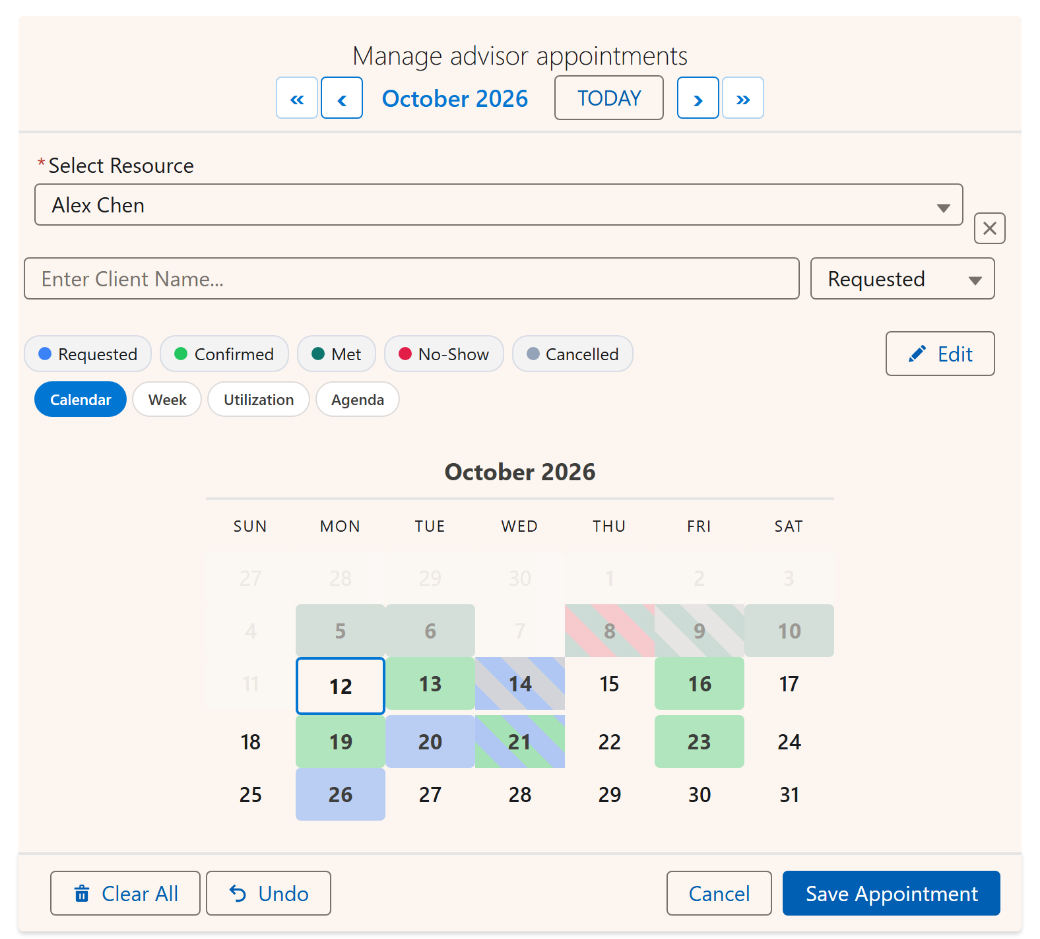
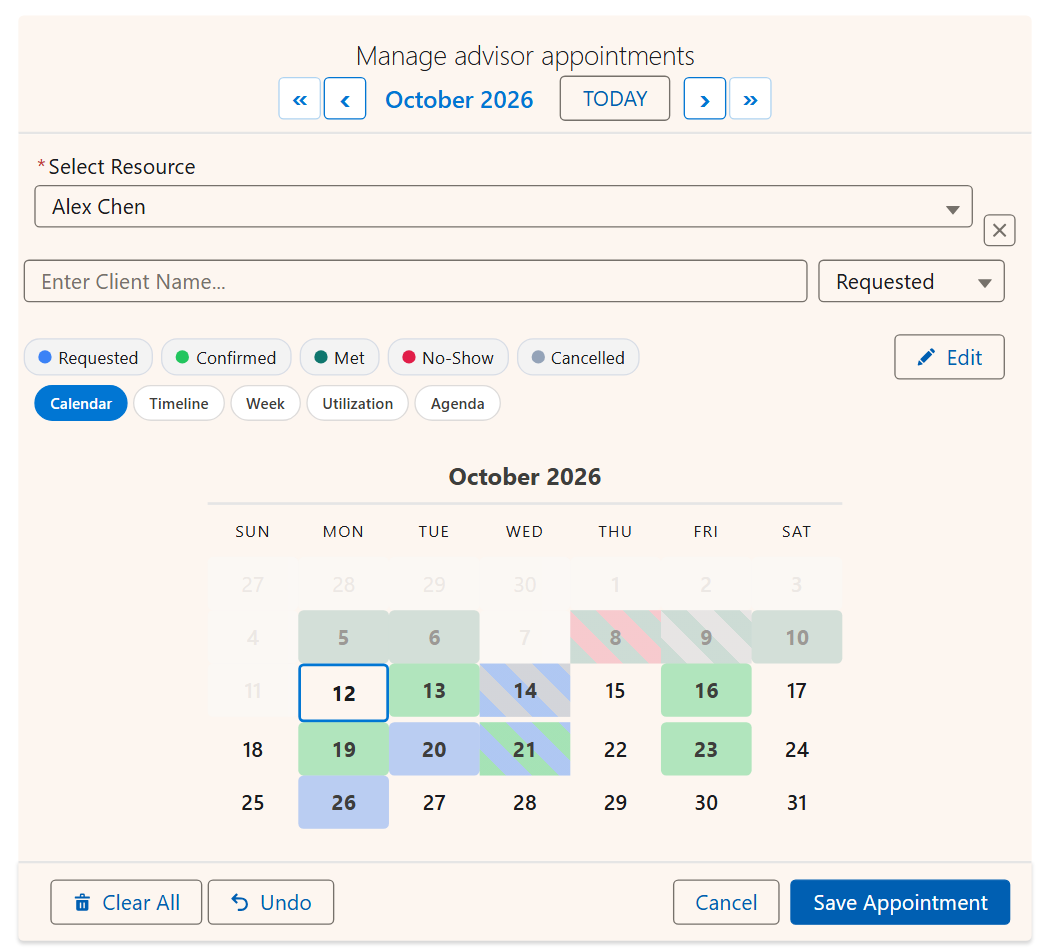
Views blog restyled with live view GIFs; wizard field-picker shots; hero shows the Timeline view; calmer home calendar card

diff --git a/blog/salesforce-calendar-views.html b/blog/salesforce-calendar-views.html
@@ -20,6 +20,44 @@
     <link rel="canonical" href="https://multidatepick.com/blog/salesforce-calendar-views.html">
     <link rel="stylesheet" href="../css/style.css">
     <link rel="stylesheet" href="../css/solutions.css">
+    <style>
+        /* Views post (restyled 2026-10-12): accent headings, view cards with live GIFs, config pills. */
+        .section h2 { position: relative; padding-left: 16px; color: #0F2D52; }
+        .section h2::before { content: ""; position: absolute; left: 0; top: 0.18em; bottom: 0.18em; width: 5px; border-radius: 3px; background: #F97316; }
+        .sc-cta-band h2 { padding-left: 0; }
+        .sc-cta-band h2::before { display: none; }
+        .vb-views { display: flex; flex-direction: column; gap: 26px; margin: 26px 0 10px;
+            /* wider than the 820px text column, so the GIFs read at a useful size */
+            width: min(1120px, calc(100vw - 40px)); margin-left: calc(50% - min(560px, calc(50vw - 20px))); }
+        .vb-view { display: grid; grid-template-columns: 0.75fr 1.25fr; gap: 30px; align-items: center;
+            background: #fff; border: 1px solid #E2E8F0; border-top: 5px solid var(--vb-c); border-radius: 14px;
+            padding: 22px 24px; box-shadow: 0 4px 18px rgba(15, 45, 82, 0.06); }
+        .vb-view.vb-flip { grid-template-columns: 1.25fr 0.75fr; }
+        .vb-view.vb-flip .vb-text { order: 2; }
+        .vb-tag { display: inline-block; font-size: 0.72rem; font-weight: 800; letter-spacing: 0.1em; text-transform: uppercase;
+            color: var(--vb-c); background: color-mix(in srgb, var(--vb-c) 12%, #fff); border-radius: 999px; padding: 4px 12px; }
+        .vb-text h3 { margin: 12px 0 8px; font-size: 1.42rem; line-height: 1.25; color: #0F2D52; }
+        .vb-text p { margin: 0 0 14px; color: #374151; line-height: 1.6; }
+        .vb-mode { font-size: 0.8rem; font-weight: 700; color: #15803D; }
+        .vb-mode::before { content: "\2713  "; }
+        .vb-mode.vb-ro { color: #64748B; }
+        .vb-mode.vb-ro::before { content: "\25CB  "; }
+        .vb-media { margin: 0; }
+        .vb-media img { display: block; width: 100%; height: auto; border-radius: 10px; border: 1px solid #E2E8F0; }
+        .vb-aside { color: #4B5563; font-style: italic; }
+        .vb-configs { display: flex; flex-direction: column; gap: 10px; margin: 20px 0; }
+        .vb-cfg { display: grid; grid-template-columns: 1.25fr 210px 1fr; gap: 16px; align-items: center;
+            background: #F8FAFC; border: 1px solid #E2E8F0; border-radius: 10px; padding: 12px 16px; }
+        .vb-cfg-what { font-weight: 700; color: #0F2D52; }
+        .vb-cfg-why { color: #64748B; font-size: 0.9rem; }
+        .vb-pills { display: flex; gap: 6px; }
+        .vb-pills b { font-size: 0.78rem; font-weight: 700; color: #fff; background: var(--vb-c); border-radius: 999px; padding: 4px 11px; }
+        @media (max-width: 760px) {
+            .vb-view, .vb-view.vb-flip { grid-template-columns: 1fr; padding: 18px; }
+            .vb-view.vb-flip .vb-text { order: 0; }
+            .vb-cfg { grid-template-columns: 1fr; gap: 6px; }
+        }
+    </style>
     <link rel="icon" type="image/x-icon" href="/favicon.ico">
     <link rel="icon" type="image/png" sizes="96x96" href="/favicon.png">
     <link rel="apple-touch-icon" sizes="180x180" href="/apple-touch-icon.png">
@@ -89,11 +127,12 @@
             "@context": "https://schema.org",
             "@graph": [
                 {"@type": "ImageObject", "contentUrl": "https://multidatepick.com/images/marketing/salesforce-calendar-five-views.png", "caption": "Salesforce bookings in all five MultiDatePick views: a resource timeline with a capacity strip, a status-colored month calendar, a utilization heatmap, a week grid and an agenda list", "creditText": "MultiDatePick", "creator": {"@type": "Organization", "name": "MultiDatePick"}},
-                {"@type": "ImageObject", "contentUrl": "https://multidatepick.com/images/views/salesforce-timeline-capacity-lanes.png", "caption": "Close-up of the MultiDatePick Salesforce timeline: overlapping multi-day bookings stack into lanes under each resource, and a capacity strip shows how full each day is", "creditText": "MultiDatePick", "creator": {"@type": "Organization", "name": "MultiDatePick"}},
-                {"@type": "ImageObject", "contentUrl": "https://multidatepick.com/images/views/salesforce-resource-timeline-view.png", "caption": "MultiDatePick resource timeline on a Salesforce booking: resources down the side, dates across the top, Day, Week and Month zoom, a combined capacity strip, and multi-day bookings drawn as continuous bars that stack into lanes when they overlap", "creditText": "MultiDatePick", "creator": {"@type": "Organization", "name": "MultiDatePick"}},
-                {"@type": "ImageObject", "contentUrl": "https://multidatepick.com/images/views/salesforce-week-view.png", "caption": "MultiDatePick week view on Salesforce for one advisor: named client meetings of 30 and 60 minutes drawn as status-colored blocks, closed hours hatched and today marked", "creditText": "MultiDatePick", "creator": {"@type": "Organization", "name": "MultiDatePick"}},
-                {"@type": "ImageObject", "contentUrl": "https://multidatepick.com/images/views/salesforce-utilization-heatmap.png", "caption": "MultiDatePick utilization heatmap on Salesforce: advisors down the side, days across, each day showing booked of capacity on a blue scale, with a combined row and an average and open column", "creditText": "MultiDatePick", "creator": {"@type": "Organization", "name": "MultiDatePick"}},
-                {"@type": "ImageObject", "contentUrl": "https://multidatepick.com/images/views/view-agenda.png", "caption": "Agenda view: chronological list of upcoming bookings grouped by day with status pills", "creditText": "MultiDatePick", "creator": {"@type": "Organization", "name": "MultiDatePick"}}
+                {"@type": "ImageObject", "contentUrl": "https://multidatepick.com/images/views/salesforce-calendar-view-demo.gif", "caption": "Animated demo of the MultiDatePick Salesforce calendar view: picking an advisor fills the month with status colors, and hovering a day opens a card listing that day's appointments by client name, time and status", "creditText": "MultiDatePick", "creator": {"@type": "Organization", "name": "MultiDatePick"}},
+                {"@type": "ImageObject", "contentUrl": "https://multidatepick.com/images/views/salesforce-timeline-view-demo.gif", "caption": "Animated demo of the MultiDatePick Salesforce resource timeline: advisors down the side, multi-day engagements as single bars, a hover card on one engagement, then zooming from Week to Month and paging forward", "creditText": "MultiDatePick", "creator": {"@type": "Organization", "name": "MultiDatePick"}},
+                {"@type": "ImageObject", "contentUrl": "https://multidatepick.com/images/views/salesforce-week-view-demo.gif", "caption": "Animated demo of the MultiDatePick Salesforce week view: choosing an advisor shows their client meetings as status-colored blocks sized to each meeting's length, with hover cards giving client, meeting type and status", "creditText": "MultiDatePick", "creator": {"@type": "Organization", "name": "MultiDatePick"}},
+                {"@type": "ImageObject", "contentUrl": "https://multidatepick.com/images/views/salesforce-utilization-view-demo.gif", "caption": "Animated demo of the MultiDatePick Salesforce utilization heatmap: advisors down the side showing booked of capacity per day, hovering a full day, then clicking it to open that advisor's week", "creditText": "MultiDatePick", "creator": {"@type": "Organization", "name": "MultiDatePick"}},
+                {"@type": "ImageObject", "contentUrl": "https://multidatepick.com/images/views/salesforce-agenda-view-demo.gif", "caption": "Animated demo of the MultiDatePick Salesforce agenda view: upcoming appointments listed by date with time, client, status pill and advisor, with hover cards on two of them", "creditText": "MultiDatePick", "creator": {"@type": "Organization", "name": "MultiDatePick"}},
+                {"@type": "ImageObject", "contentUrl": "https://multidatepick.com/images/views/salesforce-resource-timeline-view.png", "caption": "MultiDatePick resource timeline on a Salesforce booking: resources down the side, dates across the top, Day, Week and Month zoom, a combined capacity strip, and multi-day bookings drawn as continuous bars that stack into lanes when they overlap", "creditText": "MultiDatePick", "creator": {"@type": "Organization", "name": "MultiDatePick"}}
             ]
         }
         </script>
@@ -103,7 +142,7 @@
             "@type": "Article",
             "headline": "Five Calendar Views, One Salesforce Component",
             "datePublished": "2026-08-21",
-            "dateModified": "2026-08-21",
+            "dateModified": "2026-10-12",
             "author": { "@type": "Organization", "name": "MultiDatePick" },
             "publisher": { "@type": "Organization", "name": "MultiDatePick" },
             "mainEntityOfPage": "https://multidatepick.com/blog/salesforce-calendar-views.html"
@@ -117,7 +156,7 @@
         </section>
         <section class="section">
             <div class="container" style="max-width:820px;">
-                <p class="sc-meta">Published 21 August 2026 &middot; MultiDatePick</p>
+                <p class="sc-meta">Published 21 August 2026 &middot; Updated 12 October 2026 &middot; MultiDatePick</p>
 
                 <p class="sc-lead">Every calendar starts as a month grid, because that is what the word makes you picture. Then people start asking questions it cannot answer. "Who is free Thursday afternoon?" "Is Room 4 booked solid next week?" "Which technician is over capacity?" The grid holds all of that data. It just makes you hunt for it.</p>
 
@@ -134,71 +173,67 @@
 
                 <h2 style="margin-top:44px;">The five views, and the question each one answers</h2>
 
-                <table class="sc-table">
-                    <tr>
-                        <th style="width:20%;">View</th>
-                        <th style="width:38%;">The question it answers</th>
-                        <th style="width:42%;">Shape</th>
-                    </tr>
-                    <tr>
-                        <td class="sc-new">Calendar</td>
-                        <td class="sc-old">What is happening on the 14th?</td>
-                        <td class="sc-old">A month at a time, status colors per day. The default, and still the right answer most of the time.</td>
-                    </tr>
-                    <tr>
-                        <td class="sc-new">Timeline</td>
-                        <td class="sc-old">Which resource is free, and when?</td>
-                        <td class="sc-old">Resources down the side, dates across the top. A multi-day booking draws as one continuous bar.</td>
-                    </tr>
-                    <tr>
-                        <td class="sc-new">Week</td>
-                        <td class="sc-old">Who is free Thursday at 2pm?</td>
-                        <td class="sc-old">Seven days across, your business hours down. Drag across days and down hours at the same time.</td>
-                    </tr>
-                    <tr>
-                        <td class="sc-new">Utilization</td>
-                        <td class="sc-old">Who is over capacity?</td>
-                        <td class="sc-old">A heatmap of percentage-of-capacity used, per resource per day, green through red.</td>
-                    </tr>
-                    <tr>
-                        <td class="sc-new">Agenda</td>
-                        <td class="sc-old">What is next?</td>
-                        <td class="sc-old">A flat chronological list of the next 60 days. Reads well on a phone and in a shift handover.</td>
-                    </tr>
-                </table>
+                <p>Each view is built for one question. Same records underneath, drawn the way that question needs.</p>
 
-                <p>Utilization and Agenda are read only by design: they answer a question rather than take a booking. The other three are fully interactive.</p>
+                <div class="vb-views">
+                <article class="vb-view" style="--vb-c:#0176D3;">
+                    <div class="vb-text">
+                        <span class="vb-tag">Calendar</span>
+                        <h3>What is happening on the 14th?</h3>
+                        <p>A month at a time, each day filled with the status of what is booked on it. Days that mix statuses get diagonal stripes. The default, and still the right answer most of the time.</p>
+                        <span class="vb-mode">Interactive</span>
+                    </div>
+                    <figure class="vb-media">
+                        <img src="/images/views/salesforce-calendar-view-demo.gif" alt="Animated demo of the MultiDatePick Salesforce calendar view: picking an advisor fills the month with status colors, and hovering a day opens a card listing that day's appointments by client name, time and status" loading="lazy" width="700" height="780" data-zoomable>
+                    </figure>
+                </article>
+                <article class="vb-view vb-flip" style="--vb-c:#F97316;">
+                    <div class="vb-text">
+                        <span class="vb-tag">Timeline</span>
+                        <h3>Which resource is free, and when?</h3>
+                        <p>Resources down the side, dates across the top. A booking that spans three days draws as one bar, overlapping bookings stack into lanes, and a capacity strip shows how full each day is. Zoom from a single day to a whole month, and drag a bar to move or stretch it.</p>
+                        <span class="vb-mode">Interactive</span>
+                    </div>
+                    <figure class="vb-media">
+                        <img src="/images/views/salesforce-timeline-view-demo.gif" alt="Animated demo of the MultiDatePick Salesforce resource timeline: advisors down the side, multi-day engagements as single bars, a hover card on one engagement, then zooming from Week to Month and paging forward" loading="lazy" width="880" height="880" data-zoomable>
+                    </figure>
+                </article>
+                <article class="vb-view" style="--vb-c:#16A34A;">
+                    <div class="vb-text">
+                        <span class="vb-tag">Week</span>
+                        <h3>Who is free Thursday at 2pm?</h3>
+                        <p>Seven days across, business hours down, each booking sized to its real length. Bookings that overlap sit side by side in their own status colors, and the strip beside them stays open so you can add one more.</p>
+                        <span class="vb-mode">Interactive</span>
+                    </div>
+                    <figure class="vb-media">
+                        <img src="/images/views/salesforce-week-view-demo.gif" alt="Animated demo of the MultiDatePick Salesforce week view: choosing an advisor shows their client meetings as status-colored blocks sized to each meeting's length, with hover cards giving client, meeting type and status" loading="lazy" width="880" height="1080" data-zoomable>
+                    </figure>
+                </article>
+                <article class="vb-view vb-flip" style="--vb-c:#7C3AED;">
+                    <div class="vb-text">
+                        <span class="vb-tag">Utilization</span>
+                        <h3>Who is over capacity?</h3>
+                        <p>Booked against capacity, per resource per day, on one blue scale. Overbooked days get an orange ring, and a combined row sums the team. Click any cell to drop into that resource's week.</p>
+                        <span class="vb-mode vb-ro">Read only</span>
+                    </div>
+                    <figure class="vb-media">
+                        <img src="/images/views/salesforce-utilization-view-demo.gif" alt="Animated demo of the MultiDatePick Salesforce utilization heatmap: advisors down the side showing booked of capacity per day, hovering a full day, then clicking it to open that advisor's week" loading="lazy" width="880" height="780" data-zoomable>
+                    </figure>
+                </article>
+                <article class="vb-view" style="--vb-c:#0F766E;">
+                    <div class="vb-text">
+                        <span class="vb-tag">Agenda</span>
+                        <h3>What is next?</h3>
+                        <p>A flat list of the next 60 days, grouped by date, with the times, statuses and fields you pick. Reads well on a phone and in a shift handover.</p>
+                        <span class="vb-mode vb-ro">Read only</span>
+                    </div>
+                    <figure class="vb-media">
+                        <img src="/images/views/salesforce-agenda-view-demo.gif" alt="Animated demo of the MultiDatePick Salesforce agenda view: upcoming appointments listed by date with time, client, status pill and advisor, with hover cards on two of them" loading="lazy" width="700" height="860" data-zoomable>
+                    </figure>
+                </article>
+                </div>
 
-                <!-- PLACEHOLDER: salesforce-calendar-timeline-view.png (1400x800). Timeline on
-                     the demo record page, 8+ resources, at least one multi-day bar spanning 3
-                     days, weekend hatching visible. -->
-                <figure class="sc-shot">
-                    <img src="/images/views/salesforce-timeline-capacity-lanes.png" alt="Timeline view of MultiDatePick: advisors down the side, days across the top, a combined capacity strip, and multi-day engagements drawn as single bars that stack into lanes when they overlap" loading="lazy" style="width:100%;max-width:100%;height:auto;border-radius:10px;box-shadow:0 2px 12px rgba(0,0,0,0.08);border:1px solid #E2E8F0;display:block;" width="1400" height="616" data-zoomable>
-                    <figcaption><strong>Timeline.</strong> A booking that spans three days draws as one bar, not three cells.</figcaption>
-                </figure>
-
-                <!-- PLACEHOLDER: salesforce-calendar-week-view.png (1400x800). Week grid with
-                     business hours, several colored appointments at different times, one
-                     hatched block showing a closure. -->
-                <figure class="sc-shot">
-                    <img src="/images/views/salesforce-week-view.png" alt="MultiDatePick week view on Salesforce for one advisor: named client meetings of 30 and 60 minutes drawn as status-colored blocks, closed hours hatched and today marked" loading="lazy" style="width:100%;max-width:100%;height:auto;border-radius:10px;box-shadow:0 2px 12px rgba(0,0,0,0.08);border:1px solid #E2E8F0;display:block;" width="1400" height="1355" data-zoomable>
-                    <figcaption><strong>Week.</strong> Drag across days and down hours in one gesture. Hatched slots are closures.</figcaption>
-                </figure>
-
-                <!-- PLACEHOLDER: salesforce-calendar-utilization-heatmap.png (1400x700).
-                     Utilization with a real gradient across the legend, not one flat band.
-                     Needs a capacity field mapped or it shows raw counts. -->
-                <figure class="sc-shot">
-                    <img src="/images/views/salesforce-utilization-heatmap.png" alt="MultiDatePick utilization heatmap on Salesforce: advisors down the side, days across, each day showing booked of capacity on a blue scale, with a combined row and an average and open column" loading="lazy" style="width:100%;max-width:100%;height:auto;border-radius:10px;box-shadow:0 2px 12px rgba(0,0,0,0.08);border:1px solid #E2E8F0;display:block;" width="1400" height="790" data-zoomable>
-                    <figcaption><strong>Utilization.</strong> Click any cell to drop into that resource's week on that date.</figcaption>
-                </figure>
-
-                <!-- PLACEHOLDER: salesforce-calendar-agenda-view.png (900x800, portrait for
-                     mobile framing). Agenda grouped by day with time, name and status pill. -->
-                <figure class="sc-shot">
-                    <img src="/images/views/view-agenda.png" alt="Agenda view: chronological list of upcoming bookings grouped by day with status pills" loading="lazy" style="width:100%;max-width:100%;height:auto;border-radius:10px;box-shadow:0 2px 12px rgba(0,0,0,0.08);border:1px solid #E2E8F0;display:block;" width="996" height="796" data-zoomable>
-                    <figcaption><strong>Agenda.</strong> <code>agendaFields</code> picks the columns. Reads well on a phone.</figcaption>
-                </figure>
+                <p class="vb-aside">Utilization and Agenda are read only by design: they answer a question rather than take a booking. The other three are fully interactive.</p>
 
                 <h2 style="margin-top:44px;">Why this is a configuration problem, not a feature request</h2>
 
@@ -268,16 +303,16 @@
 
                 <h2 style="margin-top:44px;">Every config in the library now ships with a view already chosen</h2>
 
-                <p>Picking a default view is a judgment call, and it is easier to copy one than to make one. So every config in the <a href="/configlibrary.html">Config Library</a> now specify both a default view and a switcher list, chosen for what each config is actually for:</p>
+                <p>Picking a default view is a judgment call, and it is easier to copy one than to make one. So every config in the <a href="/configlibrary.html">Config Library</a> now specifies both a default view and a switcher list, chosen for what each config is actually for:</p>
 
-                <ul class="sc-usecases">
-                    <li>Interview and appointment configs default to Week</li>
-                    <li>Room, desk, fleet and lab configs offer Timeline and Utilization</li>
-                    <li>Date-range configs like PTO and blackout dates offer Timeline, where a multi-day record draws as one bar</li>
-                    <li>Date-only configs stay on Calendar with Agenda as the read-only companion</li>
-                    <li>Utilization only appears where a capacity field exists, because without one it shows raw counts</li>
-                    <li>Defaults are always a writable view, since a read-only default would break the config's primary action</li>
-                </ul>
+                <div class="vb-configs">
+                    <div class="vb-cfg"><span class="vb-cfg-what">Interview and appointment configs</span><span class="vb-pills"><b style="--vb-c:#16A34A;">Week</b></span><span class="vb-cfg-why">open on the hours of the day</span></div>
+                    <div class="vb-cfg"><span class="vb-cfg-what">Room, desk, fleet and lab configs</span><span class="vb-pills"><b style="--vb-c:#F97316;">Timeline</b><b style="--vb-c:#7C3AED;">Utilization</b></span><span class="vb-cfg-why">who has what, and how full</span></div>
+                    <div class="vb-cfg"><span class="vb-cfg-what">PTO, blackout and other date ranges</span><span class="vb-pills"><b style="--vb-c:#F97316;">Timeline</b></span><span class="vb-cfg-why">a multi-day record draws as one bar</span></div>
+                    <div class="vb-cfg"><span class="vb-cfg-what">Date-only configs</span><span class="vb-pills"><b style="--vb-c:#0176D3;">Calendar</b><b style="--vb-c:#0F766E;">Agenda</b></span><span class="vb-cfg-why">Agenda as the read-only companion</span></div>
+                    <div class="vb-cfg"><span class="vb-cfg-what">Anything with a capacity field</span><span class="vb-pills"><b style="--vb-c:#7C3AED;">Utilization</b></span><span class="vb-cfg-why">percentages, not raw counts</span></div>
+                </div>
+                <div class="sc-note"><strong>The default is always a writable view.</strong> A read-only default would hide the config's main job, so Utilization and Agenda are only ever offered alongside.</div>
 
                 <p style="margin-top:18px;">Import any of them, remap the field names to your own schema, and the view choice comes along with it.</p>
 

diff --git a/user-guide.html b/user-guide.html
@@ -92,6 +92,7 @@
         /* Inline screenshots - full-width with subtle frame + caption */
         .ug-screenshot { margin: 18px 0 24px; }
         .ug-screenshot figure { margin: 0; }
+        .ug-screenshot figure + figure { margin-top: 26px; }
         .ug-screenshot img {
             max-width: 100%; width: 100%; height: auto;
             border: 1px solid #E5E7EB; border-radius: 8px;
@@ -165,6 +166,9 @@
             "@context": "https://schema.org",
             "@graph": [
                 {"@type": "ImageObject", "contentUrl": "https://multidatepick.com/images/user-guide/UG-02-wizard-shape-qa.png", "caption": "MultiDatePick Setup Wizard in Salesforce: Shape-pick Q&amp;A page showing the same 3 questions (time / resource / range) with mini data-shape diagrams on each answer card", "creditText": "MultiDatePick", "creator": {"@type": "Organization", "name": "MultiDatePick"}},
+                {"@type": "ImageObject", "contentUrl": "https://multidatepick.com/images/wizard/salesforce-setup-wizard-blocked-dates.png", "caption": "MultiDatePick Salesforce setup wizard Blocked Dates section: the Advisor Closure object chosen as the source, its Closure Date, Start Time and End Time fields picked, and the resource field list open showing its lookups", "creditText": "MultiDatePick", "creator": {"@type": "Organization", "name": "MultiDatePick"}},
+                {"@type": "ImageObject", "contentUrl": "https://multidatepick.com/images/wizard/salesforce-setup-wizard-view-options.png", "caption": "MultiDatePick Salesforce setup wizard view options: Calendar, Timeline and Agenda chosen for the view switcher, Group Timeline By set to the Advisor Specialty picklist, and Client Name, Meeting Type and Status picked as the agenda fields", "creditText": "MultiDatePick", "creator": {"@type": "Organization", "name": "MultiDatePick"}},
+                {"@type": "ImageObject", "contentUrl": "https://multidatepick.com/images/wizard/salesforce-setup-wizard-field-pickers.png", "caption": "MultiDatePick Salesforce setup wizard, Object and Fields step: every field is a dropdown filtered to the chosen object, here Advisor Appointment and Advisor, with the Capacity Field list open showing only the Advisor number fields", "creditText": "MultiDatePick", "creator": {"@type": "Organization", "name": "MultiDatePick"}},
                 {"@type": "ImageObject", "contentUrl": "https://multidatepick.com/images/user-guide/UG-01-wizard-path-picker.png", "caption": "MultiDatePick Setup Wizard in Salesforce: landing screen with the three path cards: Walk me through it, Configure all properties, and Existing Configurations", "creditText": "MultiDatePick", "creator": {"@type": "Organization", "name": "MultiDatePick"}},
                 {"@type": "ImageObject", "contentUrl": "https://multidatepick.com/images/user-guide/UG-03-wizard-step1-type-name.png", "caption": "MultiDatePick Setup Wizard in Salesforce, Step 1 showing the Component Type chooser (Dates / DateTime / Booking) and the Config Name + Label inputs", "creditText": "MultiDatePick", "creator": {"@type": "Organization", "name": "MultiDatePick"}},
                 {"@type": "ImageObject", "contentUrl": "https://multidatepick.com/images/user-guide/UG-04-wizard-step2-object-fields.png", "caption": "MultiDatePick Setup Wizard in Salesforce, Step 2 showing object and field pickers - Related Object, Date Field, Relationship Field, End Date Field, and the Placement chooser for the page surface", "creditText": "MultiDatePick", "creator": {"@type": "Organization", "name": "MultiDatePick"}},
@@ -417,6 +421,10 @@
                         <img src="images/user-guide/UG-03-wizard-step1-type-name.png" alt="MultiDatePick Setup Wizard in Salesforce, Step 1 showing the Component Type chooser (Dates / DateTime / Booking) and the Config Name + Label inputs" loading="lazy" data-zoomable width="1905" height="1676">
                         <figcaption>Step 1 &mdash; pick the component, name the config. The Config Name becomes the CMT record's DeveloperName.</figcaption>
                     </figure>
+                    <figure class="ug-shot-inline">
+                        <img src="images/wizard/salesforce-setup-wizard-view-options.png" alt="MultiDatePick Salesforce setup wizard view options: Calendar, Timeline and Agenda chosen for the view switcher, Group Timeline By set to the Advisor Specialty picklist, and Client Name, Meeting Type and Status picked as the agenda fields" loading="lazy" data-zoomable width="1079" height="1491">
+                        <figcaption>View options in Step 1. Choose the views the switcher offers, group Timeline rows by any picklist or lookup on the resource, and pick the Agenda columns from a list instead of typing them.</figcaption>
+                    </figure>
                 </div>
                 <h3>Step 2 &mdash; Object &amp; Fields</h3>
                 <p>The big one. Pick the related object (e.g. <code>Schedule__c</code> or your own), the Date Field, the Relationship Field back to the parent, and any optional fields (End Date for ranges, Sub-Block fields for parent+sub-block shape).</p>
@@ -424,6 +432,10 @@
                     <figure>
                         <img src="images/user-guide/UG-04-wizard-step2-object-fields.png" alt="MultiDatePick Setup Wizard in Salesforce, Step 2 showing object and field pickers - Related Object, Date Field, Relationship Field, End Date Field, and the Placement chooser for the page surface" loading="lazy" data-zoomable width="1905" height="2701">
                         <figcaption>Step 2 &mdash; field mapping. The wizard reads your org's schema and offers picklists for every dropdown.</figcaption>
+                    </figure>
+                    <figure class="ug-shot-inline">
+                        <img src="images/wizard/salesforce-setup-wizard-field-pickers.png" alt="MultiDatePick Salesforce setup wizard, Object and Fields step: every field is a dropdown filtered to the chosen object, here Advisor Appointment and Advisor, with the Capacity Field list open showing only the Advisor number fields" loading="lazy" data-zoomable width="2109" height="1047">
+                        <figcaption>No API names to look up. Each picker lists only the fields of the object you chose, and only the types that fit: the Capacity Field list shows number fields, the Booking Resource Field list shows lookups.</figcaption>
                     </figure>
                 </div>
                 <!-- ═══════════════════════════════════════════════════════════
@@ -709,6 +721,10 @@
                     <figure>
                         <img src="images/user-guide/UG-07-wizard-step5-constraints.png" alt="MultiDatePick Setup Wizard in Salesforce, Step 5 - Max Selections, Allow Past Dates toggle, Recurring Pattern toggle, Blocked Dates Source, Conflict Look-Ahead Days, and Preload Mode" loading="lazy" data-zoomable width="1905" height="1759">
                         <figcaption>Step 5 &mdash; final guardrails. Defaults work for most cases &mdash; only touch what you need to restrict.</figcaption>
+                    </figure>
+                    <figure class="ug-shot-inline">
+                        <img src="images/wizard/salesforce-setup-wizard-blocked-dates.png" alt="MultiDatePick Salesforce setup wizard Blocked Dates section: the Advisor Closure object chosen as the source, its Closure Date, Start Time and End Time fields picked, and the resource field list open showing its lookups" loading="lazy" data-zoomable width="2109" height="839">
+                        <figcaption>Blocked dates come from any object. Pick it, and the date, time and resource pickers fill with that object's fields.</figcaption>
                     </figure>
                 </div>
                 <h3>Save &amp; deploy</h3>

diff --git a/index.html b/index.html
@@ -138,7 +138,7 @@
         {
             "@context": "https://schema.org",
             "@graph": [
-                {"@type": "ImageObject", "contentUrl": "https://multidatepick.com/images/salesforce-booking-calendar-status-colors.png", "caption": "MultiDatePick Salesforce booking calendar showing one advisor month: each day colored by appointment status (Requested, Confirmed, Met, No-Show), with diagonal stripes on the days that mix statuses", "creditText": "MultiDatePick", "creator": {"@type": "Organization", "name": "MultiDatePick"}},
+                {"@type": "ImageObject", "contentUrl": "https://multidatepick.com/images/salesforce-booking-calendar-status-colors.png", "caption": "MultiDatePick Salesforce booking calendar showing one advisor month: each day colored by appointment status (Requested, Confirmed, Met, No-Show), diagonal stripes on the days that mix statuses, and a switcher for the Calendar, Timeline, Week, Utilization and Agenda views", "creditText": "MultiDatePick", "creator": {"@type": "Organization", "name": "MultiDatePick"}},
                 {"@type": "ImageObject", "contentUrl": "https://multidatepick.com/images/marketing/all-three-clean.png", "caption": "All three MultiDatePick Salesforce components - date picker, date+time scheduler, and resource booking - on one Lightning record page", "creditText": "MultiDatePick", "creator": {"@type": "Organization", "name": "MultiDatePick"}},
                 {"@type": "ImageObject", "contentUrl": "https://multidatepick.com/images/marketing/booking-grid-clean.png", "caption": "Salesforce resource booking time-slot grid with X/Y capacity badges on each 30-minute slot", "creditText": "MultiDatePick", "creator": {"@type": "Organization", "name": "MultiDatePick"}},
                 {"@type": "ImageObject", "contentUrl": "https://multidatepick.com/images/marketing/capacity-booking-clean.png", "caption": "Capacity-aware Salesforce booking calendar with X/Y count badges on every time slot showing remaining seats", "creditText": "MultiDatePick", "creator": {"@type": "Organization", "name": "MultiDatePick"}},
@@ -160,7 +160,7 @@
                 {"@type": "ImageObject", "contentUrl": "https://multidatepick.com/images/views/salesforce-utilization-heatmap.png", "caption": "MultiDatePick utilization heatmap on Salesforce: advisors down the side, days across, each day showing booked of capacity on a blue scale, with a combined row and an average and open column", "creditText": "MultiDatePick", "creator": {"@type": "Organization", "name": "MultiDatePick"}},
                 {"@type": "ImageObject", "contentUrl": "https://multidatepick.com/images/marketing/view-agenda-clean.png", "caption": "Salesforce agenda view: rolling chronological list of the next 60 days grouped by date, with time ranges, status labels, and configurable hover fields, optimized for a shift handover or mobile read", "creditText": "MultiDatePick", "creator": {"@type": "Organization", "name": "MultiDatePick"}},
                 {"@type": "ImageObject", "contentUrl": "https://multidatepick.com/images/wizard/smart-field-mapping.png", "caption": "Smart Field Mapping in the MultiDatePick Salesforce Setup Wizard: paste a JSON config and every Object, Date Field, Status Field, and Resource lookup auto-fills into the wizard - no field-by-field typing", "creditText": "MultiDatePick", "creator": {"@type": "Organization", "name": "MultiDatePick"}},
-                {"@type": "ImageObject", "contentUrl": "https://multidatepick.com/images/marketing/view-calendar-clean.png", "caption": "Salesforce calendar view (month grid) with status colors filling each date - Confirmed green, Tentative amber, Pending blue, Cancelled grey", "creditText": "MultiDatePick", "creator": {"@type": "Organization", "name": "MultiDatePick"}}
+                {"@type": "ImageObject", "contentUrl": "https://multidatepick.com/images/views/salesforce-calendar-month-view.png", "caption": "MultiDatePick Salesforce calendar month view for one advisor: booked days filled with their appointment status color, Requested blue, Confirmed green, No-Show red and Cancelled grey, with stripes on days that mix two statuses", "creditText": "MultiDatePick", "creator": {"@type": "Organization", "name": "MultiDatePick"}}
             ]
         }
         </script>
@@ -183,7 +183,7 @@
                     </div>
                 </div>
                 <div class="hero-image" style="display:flex;justify-content:center;">
-                    <img src="images/salesforce-booking-calendar-status-colors.png" alt="MultiDatePick Salesforce booking calendar showing one advisor month: each day colored by appointment status (Requested, Confirmed, Met, No-Show), with diagonal stripes on the days that mix statuses" width="1040" height="939" style="max-width:520px;width:100%;border-radius:12px;box-shadow:0 8px 32px rgba(12,74,110,.15);" fetchpriority="high" data-zoomable>
+                    <img src="images/salesforce-booking-calendar-status-colors.png" alt="MultiDatePick Salesforce booking calendar showing one advisor month: each day colored by appointment status (Requested, Confirmed, Met, No-Show), diagonal stripes on the days that mix statuses, and a switcher for the Calendar, Timeline, Week, Utilization and Agenda views" width="1051" height="948" style="max-width:520px;width:100%;border-radius:12px;box-shadow:0 8px 32px rgba(12,74,110,.15);" fetchpriority="high" data-zoomable>
                 </div>
             </div>
         </section>
@@ -481,7 +481,7 @@
                 <div class="views-grid">
                     <div class="view-card fade-in">
                         <div class="view-label">Calendar</div>
-                        <img src="/images/marketing/view-calendar-clean.png" alt="Salesforce calendar view (month grid) with status colors filling each date - Confirmed green, Tentative amber, Pending blue, Cancelled grey" width="1106" height="729" loading="lazy" data-zoomable>
+                        <img src="/images/views/salesforce-calendar-month-view.png" alt="MultiDatePick Salesforce calendar month view for one advisor: booked days filled with their appointment status color, Requested blue, Confirmed green, No-Show red and Cancelled grey, with stripes on days that mix two statuses" width="1051" height="948" loading="lazy" data-zoomable>
                         <p class="view-summary"><strong>What is happening on the 14th?</strong> A month at a time with status colors per day. The default, and still the right answer most of the time.</p>
                     </div>
                     <div class="view-card fade-in">

diff --git a/blog/salesforce-calendar-setup-wizard.html b/blog/salesforce-calendar-setup-wizard.html
@@ -91,6 +91,7 @@
             "@context": "https://schema.org",
             "@graph": [
                 {"@type": "ImageObject", "contentUrl": "https://multidatepick.com/images/marketing/setup-wizard-clean.png", "caption": "MultiDatePick Setup Wizard in Salesforce: the three path cards, Walk me through it, Configure all properties, and Existing Configurations", "creditText": "MultiDatePick", "creator": {"@type": "Organization", "name": "MultiDatePick"}},
+                {"@type": "ImageObject", "contentUrl": "https://multidatepick.com/images/wizard/salesforce-setup-wizard-field-pickers.png", "caption": "MultiDatePick Salesforce setup wizard, Object and Fields step: every field is a dropdown filtered to the chosen object, here Advisor Appointment and Advisor, with the Capacity Field list open showing only the Advisor number fields", "creditText": "MultiDatePick", "creator": {"@type": "Organization", "name": "MultiDatePick"}},
                 {"@type": "ImageObject", "contentUrl": "https://multidatepick.com/images/multidatepick-wizard-shape-questions.png", "caption": "MultiDatePick Setup Wizard in Salesforce: the shape-pick question page with time, resource and range questions and mini data-shape diagrams on each answer", "creditText": "MultiDatePick", "creator": {"@type": "Organization", "name": "MultiDatePick"}},
                 {"@type": "ImageObject", "contentUrl": "https://multidatepick.com/images/marketing/live-preview-clean.png", "caption": "MultiDatePick Setup Wizard in Salesforce with the Live Preview pane showing a working Salesforce calendar below the component-type selector", "creditText": "MultiDatePick", "creator": {"@type": "Organization", "name": "MultiDatePick"}},
                 {"@type": "ImageObject", "contentUrl": "https://multidatepick.com/images/marketing/wizard-import-clean.png", "caption": "MultiDatePick Setup Wizard in Salesforce: Import / Export tab with a configuration JSON paste box and the export section", "creditText": "MultiDatePick", "creator": {"@type": "Organization", "name": "MultiDatePick"}},
@@ -183,6 +184,10 @@
 
                 <h2 style="margin-top:44px;">Inside the tabs: Time Fields and Status &amp; Display</h2>
 
+                <figure class="sc-shot">
+                    <img src="../images/wizard/salesforce-setup-wizard-field-pickers.png" alt="MultiDatePick Salesforce setup wizard, Object and Fields step: every field is a dropdown filtered to the chosen object, here Advisor Appointment and Advisor, with the Capacity Field list open showing only the Advisor number fields" loading="lazy" data-zoomable width="2109" height="1047">
+                    <figcaption>Every field is a dropdown, filtered to the object you picked and to the field types that fit. Nobody has to go and look up an API name.</figcaption>
+                </figure>
                 <p>Two tabs do most of the heavy lifting on a booking or scheduling config. The Time Fields step maps the start-time, end-time, and interval fields your calendar needs; the Status &amp; Display step is where the visual polish lives, from status-driven cell colors to which fields show on hover.</p>
 
                 <figure class="sc-shot">
